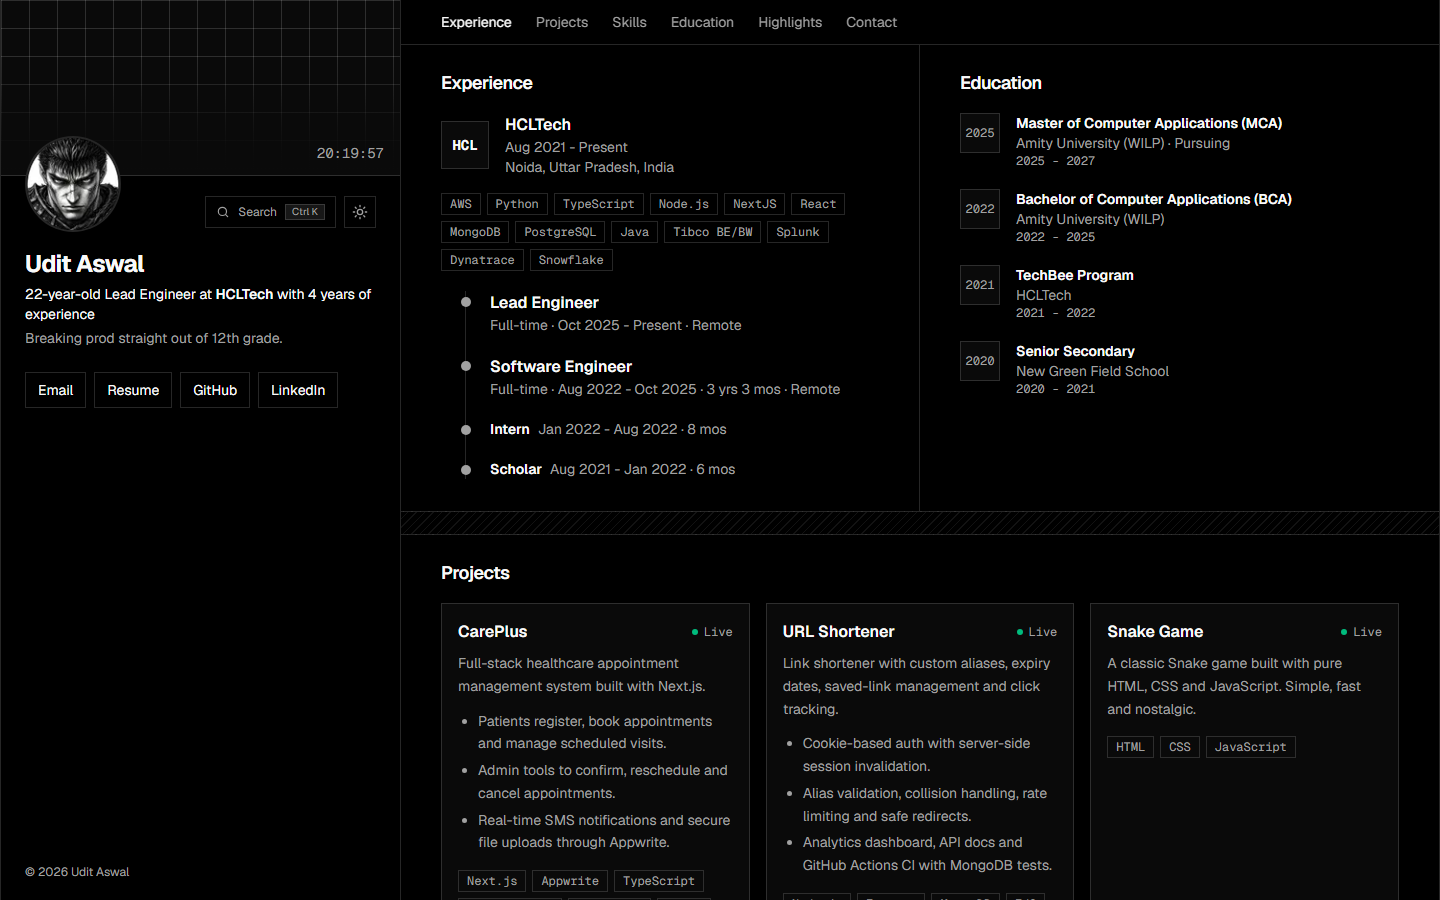
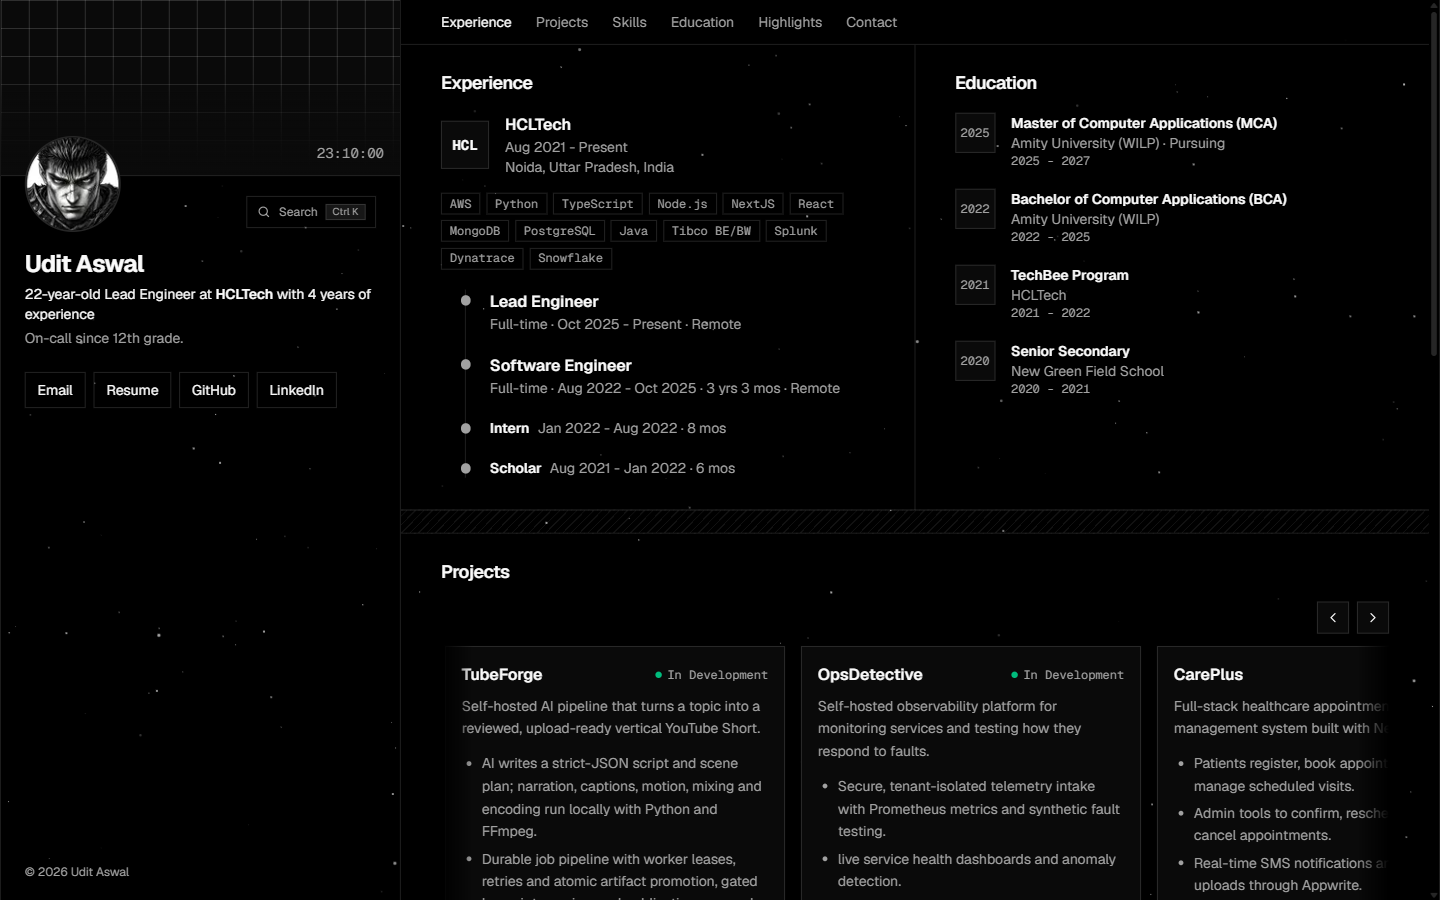
updated projects

diff --git a/src/app/components/sections/Projects.tsx b/src/app/components/sections/Projects.tsx
@@ -1,50 +1,156 @@
-import { projects } from "../../data";
+"use client";
+
+import { useEffect, useRef } from "react";
+import { projects, type Project } from "../../data";
 import Section, { Tag } from "../Section";
 
-/** Project cards. Add or edit projects in `projects` in data.ts; the grid reflows by itself. */
+function ArrowButton({
+  direction,
+  onClick,
+}: {
+  direction: "left" | "right";
+  onClick: () => void;
+}) {
+  return (
+    <button
+      type="button"
+      onClick={onClick}
+      aria-label={direction === "left" ? "Scroll projects left" : "Scroll projects right"}
+      className="flex size-8 shrink-0 items-center justify-center border bg-card transition-colors hover:bg-muted"
+    >
+      <svg
+        viewBox="0 0 24 24"
+        fill="none"
+        stroke="currentColor"
+        strokeWidth={2}
+        strokeLinecap="round"
+        strokeLinejoin="round"
+        className="size-4"
+        aria-hidden
+      >
+        {direction === "left" ? <path d="M15 18l-6-6 6-6" /> : <path d="M9 18l6-6-6-6" />}
+      </svg>
+    </button>
+  );
+}
+
+function ProjectCard({ p, hidden }: { p: Project; hidden?: boolean }) {
+  return (
+    <article
+      data-card
+      aria-hidden={hidden}
+      className="flex w-[300px] shrink-0 snap-start flex-col border bg-card p-4 sm:w-[340px]"
+    >
+      <div className="flex items-center justify-between gap-2">
+        <h3 className="font-semibold">{p.title}</h3>
+        <span className="flex items-center gap-1.5 font-mono text-xs text-muted-foreground">
+          <span className="size-1.5 rounded-full bg-emerald-500" aria-hidden />
+          {p.status}
+        </span>
+      </div>
+      <p className="mt-2 text-sm leading-relaxed text-muted-foreground">{p.description}</p>
+      {p.points && (
+        <ul className="mt-3 list-disc space-y-1 pl-5 text-sm leading-relaxed text-muted-foreground">
+          {p.points.map((pt) => (
+            <li key={pt}>{pt}</li>
+          ))}
+        </ul>
+      )}
+      <div className="mt-4 flex flex-wrap gap-1.5">
+        {p.tags.map((t) => (
+          <Tag key={t}>{t}</Tag>
+        ))}
+      </div>
+      <div className="mt-auto flex flex-wrap gap-2 pt-4">
+        {p.links.map((l) => (
+          <a
+            key={l.label}
+            href={l.href}
+            target="_blank"
+            rel="noopener noreferrer"
+            tabIndex={hidden ? -1 : undefined}
+            className="inline-flex h-8 items-center border px-3 text-xs transition-colors hover:bg-muted"
+          >
+            {l.label} ↗
+          </a>
+        ))}
+      </div>
+    </article>
+  );
+}
+
+/**
+ * Project cards in an endless horizontal carousel: the list is rendered twice
+ * so there's always a next/previous card to scroll to, and once the track
+ * crosses into the duplicate half it's snapped back by exactly one set-width
+ * (no animation, so it's invisible) to keep it scrolling forever in either
+ * direction. Add or edit projects in `projects` in data.ts.
+ */
 export default function Projects() {
+  const trackRef = useRef<HTMLDivElement>(null);
+
+  const recenter = () => {
+    const el = trackRef.current;
+    if (!el) return;
+    el.scrollLeft = el.scrollWidth / 2;
+  };
+
+  useEffect(() => {
+    recenter();
+
+    const el = trackRef.current;
+    if (!el) return;
+
+    let timeout: ReturnType<typeof setTimeout>;
+    const wrapWhenIdle = () => {
+      clearTimeout(timeout);
+      timeout = setTimeout(() => {
+        const setWidth = el.scrollWidth / 2;
+        if (el.scrollLeft <= 1) {
+          el.scrollLeft += setWidth;
+        } else if (el.scrollLeft >= setWidth * 2 - el.clientWidth - 1) {
+          el.scrollLeft -= setWidth;
+        }
+      }, 120);
+    };
+
+    el.addEventListener("scroll", wrapWhenIdle);
+    window.addEventListener("resize", recenter);
+    return () => {
+      clearTimeout(timeout);
+      el.removeEventListener("scroll", wrapWhenIdle);
+      window.removeEventListener("resize", recenter);
+    };
+  }, []);
+
+  const scrollByCard = (dir: 1 | -1) => {
+    const el = trackRef.current;
+    if (!el) return;
+    const card = el.querySelector<HTMLElement>("[data-card]");
+    const amount = card ? card.offsetWidth + 16 : el.clientWidth * 0.8;
+    el.scrollBy({ left: dir * amount, behavior: "smooth" });
+  };
+
   return (
     <Section id="projects" title="Projects">
-      <div className="grid grid-cols-[repeat(auto-fill,minmax(280px,1fr))] gap-4">
-        {projects.map((p) => (
-          <article key={p.title} className="flex flex-col border bg-card p-4">
-            <div className="flex items-center justify-between gap-2">
-              <h3 className="font-semibold">{p.title}</h3>
-              <span className="flex items-center gap-1.5 font-mono text-xs text-muted-foreground">
-                <span className="size-1.5 rounded-full bg-emerald-500" aria-hidden />
-                {p.status}
-              </span>
-            </div>
-            <p className="mt-2 text-sm leading-relaxed text-muted-foreground">
-              {p.description}
-            </p>
-            {p.points && (
-              <ul className="mt-3 list-disc space-y-1 pl-5 text-sm leading-relaxed text-muted-foreground">
-                {p.points.map((pt) => (
-                  <li key={pt}>{pt}</li>
-                ))}
-              </ul>
-            )}
-            <div className="mt-4 flex flex-wrap gap-1.5">
-              {p.tags.map((t) => (
-                <Tag key={t}>{t}</Tag>
-              ))}
-            </div>
-            <div className="mt-auto flex flex-wrap gap-2 pt-4">
-              {p.links.map((l) => (
-                <a
-                  key={l.label}
-                  href={l.href}
-                  target="_blank"
-                  rel="noopener noreferrer"
-                  className="inline-flex h-8 items-center border px-3 text-xs transition-colors hover:bg-muted"
-                >
-                  {l.label} ↗
-                </a>
-              ))}
-            </div>
-          </article>
-        ))}
+      <div className="mb-3 flex items-center justify-end gap-2">
+        <ArrowButton direction="left" onClick={() => scrollByCard(-1)} />
+        <ArrowButton direction="right" onClick={() => scrollByCard(1)} />
+      </div>
+      <div className="relative">
+        <div className="pointer-events-none absolute inset-y-0 left-0 z-10 w-8 bg-gradient-to-r from-background to-transparent" />
+        <div className="pointer-events-none absolute inset-y-0 right-0 z-10 w-8 bg-gradient-to-l from-background to-transparent" />
+        <div
+          ref={trackRef}
+          className="no-scrollbar flex snap-x snap-mandatory gap-4 overflow-x-auto scroll-pl-1 pb-2"
+        >
+          {projects.map((p) => (
+            <ProjectCard key={p.title} p={p} />
+          ))}
+          {projects.map((p) => (
+            <ProjectCard key={`dup-${p.title}`} p={p} hidden />
+          ))}
+        </div>
       </div>
     </Section>
   );

diff --git a/src/app/components/StarsBackground.tsx b/src/app/components/StarsBackground.tsx
@@ -1,0 +1,50 @@
+"use client";
+
+import { useEffect, useRef } from "react";
+
+/** Flip to false to turn off the twinkling star background entirely. */
+export const STARS_ENABLED = true;
+
+const STAR_COUNT = 200;
+
+/**
+ * Fixed, full-viewport field of twinkling dots behind all page content.
+ * Each star gets its own randomized size, opacity range and cycle timing via
+ * inline custom properties; the actual animation is pure CSS (see
+ * `.stars-field` in globals.css), and freezes to a static dim state under
+ * prefers-reduced-motion.
+ */
+export default function StarsBackground() {
+  const ref = useRef<HTMLDivElement>(null);
+
+  useEffect(() => {
+    if (!STARS_ENABLED) return;
+    const el = ref.current;
+    if (!el) return;
+
+    const frag = document.createDocumentFragment();
+    for (let i = 0; i < STAR_COUNT; i++) {
+      const star = document.createElement("span");
+      star.className = "star";
+      const size = (Math.random() * 1.6 + 0.6).toFixed(2);
+      const minOp = (Math.random() * 0.15 + 0.05).toFixed(2);
+      const maxOp = (Math.random() * 0.4 + 0.5).toFixed(2);
+      const dur = (Math.random() * 3 + 2).toFixed(2);
+      const delay = (-Math.random() * 5).toFixed(2);
+      star.style.cssText =
+        `width:${size}px;height:${size}px;` +
+        `top:${(Math.random() * 100).toFixed(2)}%;left:${(Math.random() * 100).toFixed(2)}%;` +
+        `--min-op:${minOp};--max-op:${maxOp};--dur:${dur}s;--delay:${delay}s;`;
+      frag.appendChild(star);
+    }
+    el.appendChild(frag);
+
+    return () => {
+      el.innerHTML = "";
+    };
+  }, []);
+
+  if (!STARS_ENABLED) return null;
+
+  return <div ref={ref} className="stars-field drift" aria-hidden />;
+}

diff --git a/src/app/globals.css b/src/app/globals.css
@@ -99,6 +99,64 @@ body {
   background: var(--muted-foreground);
 }
 
+.stars-field {
+  position: fixed;
+  inset: 0;
+  z-index: -1;
+  overflow: hidden;
+  pointer-events: none;
+}
+
+.stars-field .star {
+  position: absolute;
+  border-radius: 9999px;
+  background: var(--foreground);
+  opacity: 0.15;
+  animation: star-twinkle var(--dur) ease-in-out var(--delay) infinite;
+}
+
+@keyframes star-twinkle {
+  0%,
+  100% {
+    opacity: var(--min-op);
+    transform: scale(1);
+  }
+  50% {
+    opacity: var(--max-op);
+    transform: scale(1.3);
+  }
+}
+
+.stars-field.drift {
+  animation: star-drift 120s linear infinite;
+}
+
+@keyframes star-drift {
+  from {
+    transform: translate(0, 0);
+  }
+  to {
+    transform: translate(-40px, -30px);
+  }
+}
+
+@media (prefers-reduced-motion: reduce) {
+  .stars-field .star,
+  .stars-field.drift {
+    animation: none;
+    opacity: 0.25;
+  }
+}
+
+.no-scrollbar {
+  scrollbar-width: none;
+  -ms-overflow-style: none;
+}
+
+.no-scrollbar::-webkit-scrollbar {
+  display: none;
+}
+
 @keyframes marquee {
   to {
     transform: translateX(-50%);

diff --git a/src/app/layout.tsx b/src/app/layout.tsx
@@ -1,5 +1,6 @@
 import type { Metadata } from "next";
 import { Geist, Geist_Mono } from "next/font/google";
+import StarsBackground from "./components/StarsBackground";
 import "./globals.css";
 
 const geistSans = Geist({ variable: "--font-geist-sans", subsets: ["latin"] });
@@ -27,7 +28,10 @@ export default function RootLayout({
       <head>
         <script dangerouslySetInnerHTML={{ __html: themeScript }} />
       </head>
-      <body className="font-sans antialiased">{children}</body>
+      <body className="font-sans antialiased">
+        <StarsBackground />
+        {children}
+      </body>
     </html>
   );
 }

diff --git a/src/app/components/sections/Hero.tsx b/src/app/components/sections/Hero.tsx
@@ -3,7 +3,7 @@ import { profile } from "../../data";
 import Banner from "../Banner";
 import CommandPalette from "../CommandPalette";
 import ResumeButton from "../ResumeButton";
-import ThemeToggle from "../ThemeToggle";
+// import ThemeToggle from "../ThemeToggle";
 
 /**
  * Every contact button, in display order. `external` links open in a new tab.
@@ -39,7 +39,7 @@ export default function Hero() {
           </div>
           <div className="flex items-center gap-2 pb-1">
             <CommandPalette />
-            <ThemeToggle />
+            {/* <ThemeToggle /> */}
           </div>
         </div>
 

diff --git a/src/app/data.ts b/src/app/data.ts
@@ -220,7 +220,7 @@ export const projects: Project[] = [
     tags: ["Node.js", "Express", "MongoDB", "EJS"],
     links: [
       { label: "GitHub", href: "https://github.com/uditaswal/url-shortner" },
-      { label: "Live", href: "https://url-shortner-ugkr.onrender.com/" },
+      { label: "Render", href: "https://url-shortner-ugkr.onrender.com/" },
     ],
   },
 {
